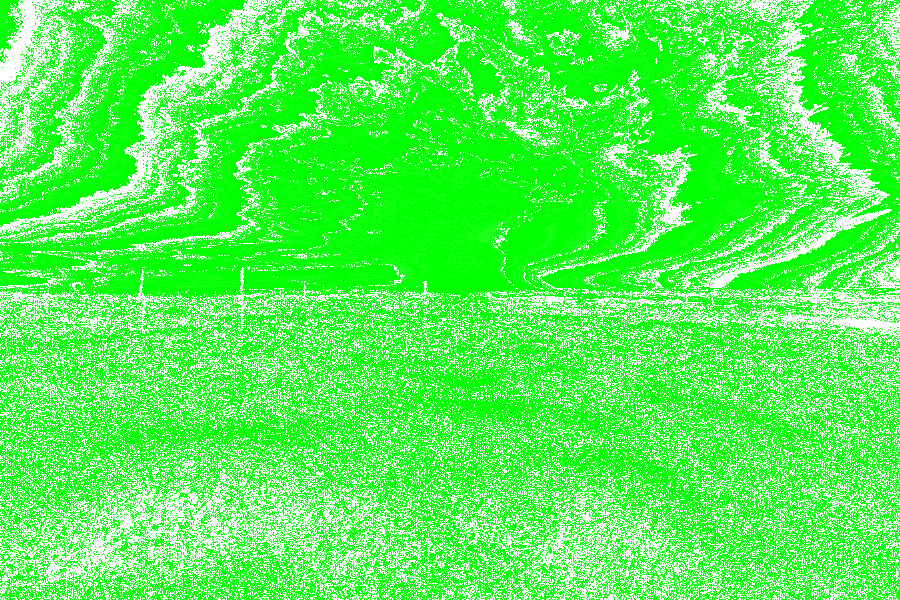
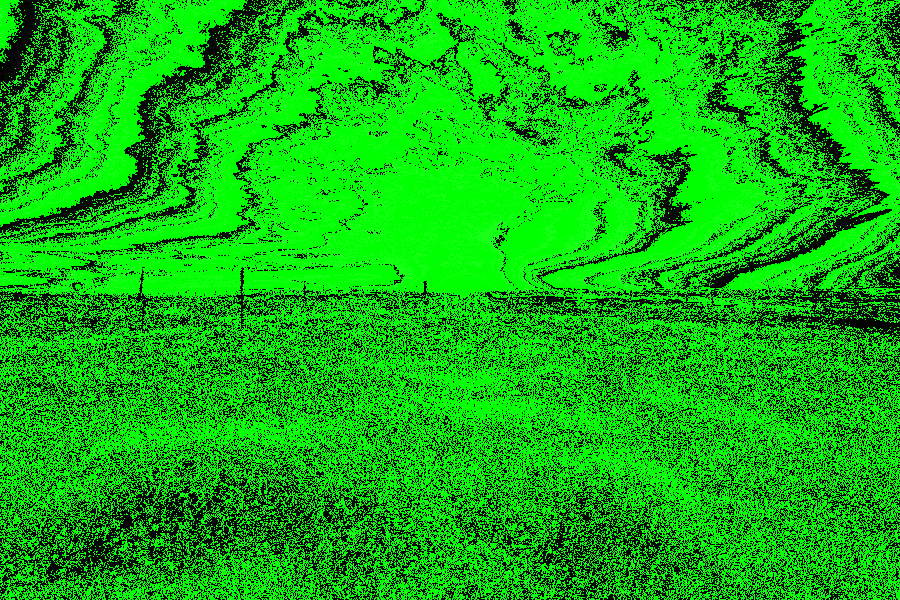
update examples and bugfixes

diff --git a/main.js b/main.js
@@ -82,8 +82,6 @@
               this.data[index + 3] = 255 * (1 - output.error);
               
               // if black, set transparent
-              if(destination.reduce(function(previous, current) { return previous + current; }) === 0)
-                this.data[index + 3] = 0;
             }
           }
 

diff --git a/network.js b/network.js
@@ -24,7 +24,7 @@
         });
 
       return trainer.train(set, {
-        iterations: 500000,
+        iterations: 50000,
         error: .00005,
         rate: 1
       });

diff --git a/README.md b/README.md
@@ -10,11 +10,12 @@ Clone this repository and make sure the ```output``` folder exists before runnin
 $ node main.js
 ```
 
-Edit ```colors.js``` if you want to use different colors. If a pixel in any of the images is black (```#000000```), it is currently automatically made transparent (for clarity purposes). The average error of the network output is subtracted from the transparency of each pixel.
+Edit ```colors.js``` if you want to use different colors. The average error of the network output is subtracted from the transparency of each pixel.
 
-## Applications
+## Observations
 
-None that I know of, just experimenting :)
+* When trained to recognize red, green, blue and black (```#ff0000```, ```#00ff00```, ```#0000ff``` and ```#000000``` respectively), cyan, yellow and magenta emerge as solid states.
+* Applying a network trained to recognize black and white (```#ffffff``` and ```#000000``` respectively) on a circular color spectrum produces fractal-like patterns.
 
 ## Examples
 
